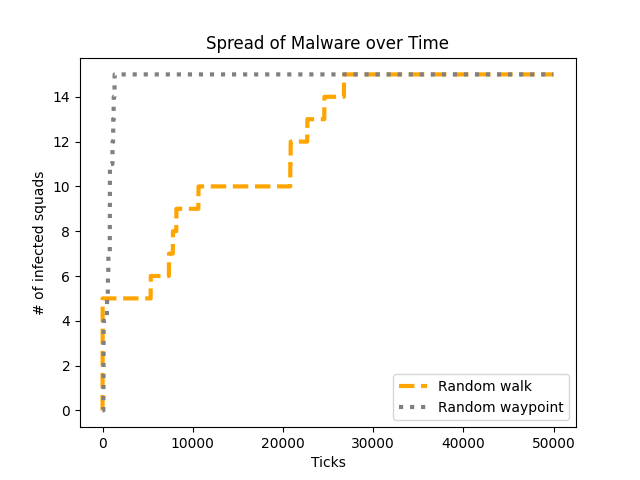
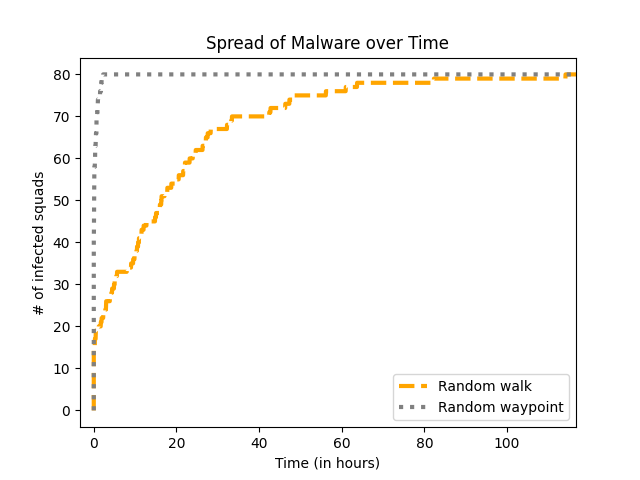
Add report updates

diff --git a/reports/final_report.md b/reports/final_report.md
@@ -32,7 +32,7 @@ We are replicating the experiment that compares the rate of malware spread acros
 In our replication, we tested out the random walk and random waypoint movements. We successfully replicated the general shapes of each curve, and we see that like the original experiment, the malware spreads extremely quickly with the random waypoint and much slower with the random walk. Our results of the replication are below:
 
 ![](img/replication.png)
-**Figure 2:** Spread of malware over time, where each 1000 ticks corresponds to one hour. Similar to the paper, each travel method eventually hits the carrying capacity of 15 squads, which is the number of squads initialized.
+**Figure 2:** Spread of malware over time, where each 300 ticks corresponds to one hour. Similar to the paper, each travel method eventually infects every squad.
 
 Based on our results, we found that the random waypoint movement causes malware to spread more rapidly than the random walk movement. Although agents’ maximum step size is the same in all of the movement patterns, the agents end up interacting more with each other when they are moving to random waypoints.
 
@@ -40,9 +40,12 @@ Based on our results, we found that the random waypoint movement causes malware 
 
 For our extension we plan to do a parameter sweep on different values for platoons and squads for different types of movement. Currently we have the infrastructure built for a parameter sweep, and we just need to log all the data and visualize it. The paper never delved into the impacts of different sizes for platoons and squads on malware spread, meaning that this extension will give us a clear idea how size impacts mobile network infection rate.
 
+![](img/random_waypoint_sweep.png)
+**Figure 3:** Parameter sweep of 10, 20, and 30 platoons 
+
 ### Discussion
 
-One continuing cause for concern is adapting the paper from Repast Simphony to repast4py, the Python library. As a result, we’ve done a lot of tuning, such as the times agents move on each step and the size of the infection area.
+One continuing cause for concern is adapting the paper from Repast Simphony to repast4py, the Python library. As a result, we’ve done a lot of tuning, such as the times agents move on each step and the size of the infection area. However, the switch to Python means that we haven't been able to perfectly replicate the experiments; for example, the shapes of the infection curves are fairly accurate, but the time steps aren't perfectly replicated (our model takes much longer to produce the same behavior).
 
 ### Conclusion
 

diff --git a/reports/draft_report.md b/reports/draft_report.md
@@ -35,7 +35,7 @@ We replicated the experiment that compares the rate of malware spread across thr
 
 In our replication, we tested out the random walk and random waypoint movements. We successfully replicated the general shapes of each curve, and we see that like the original experiment, the malware spreads extremely quickly with the random waypoint and much slower with the random walk. Our results of the replication are below:
 
-TODO: Map ticks to hours, run the other one with 80 squads
+TODO: run the other one with 80 squads
 
 ![](img/replication.png)
 
